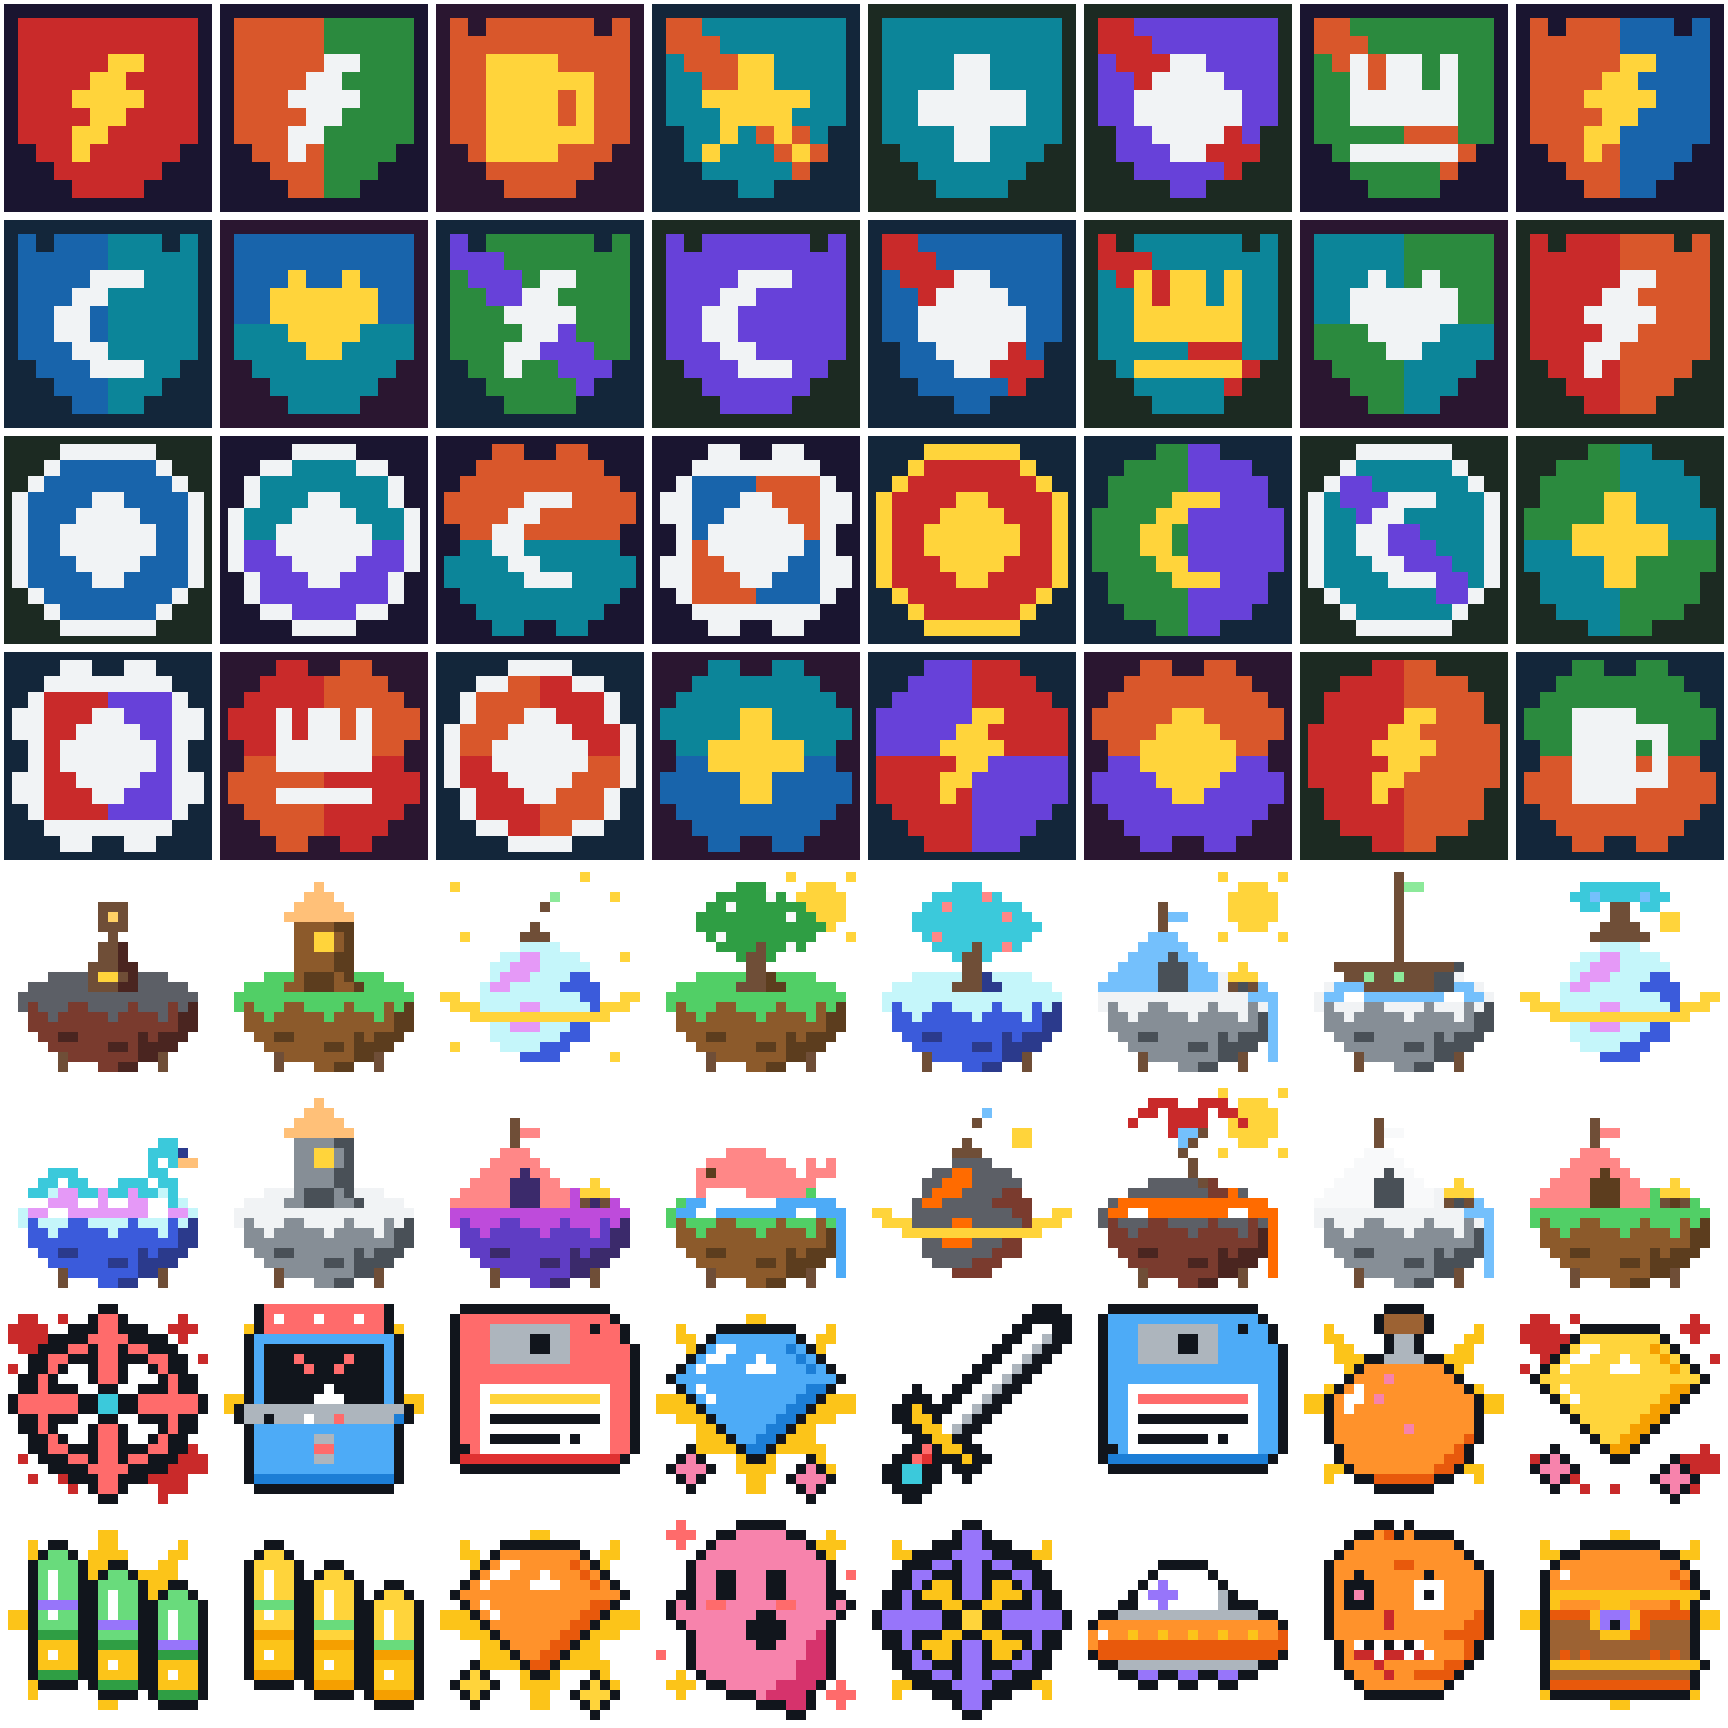
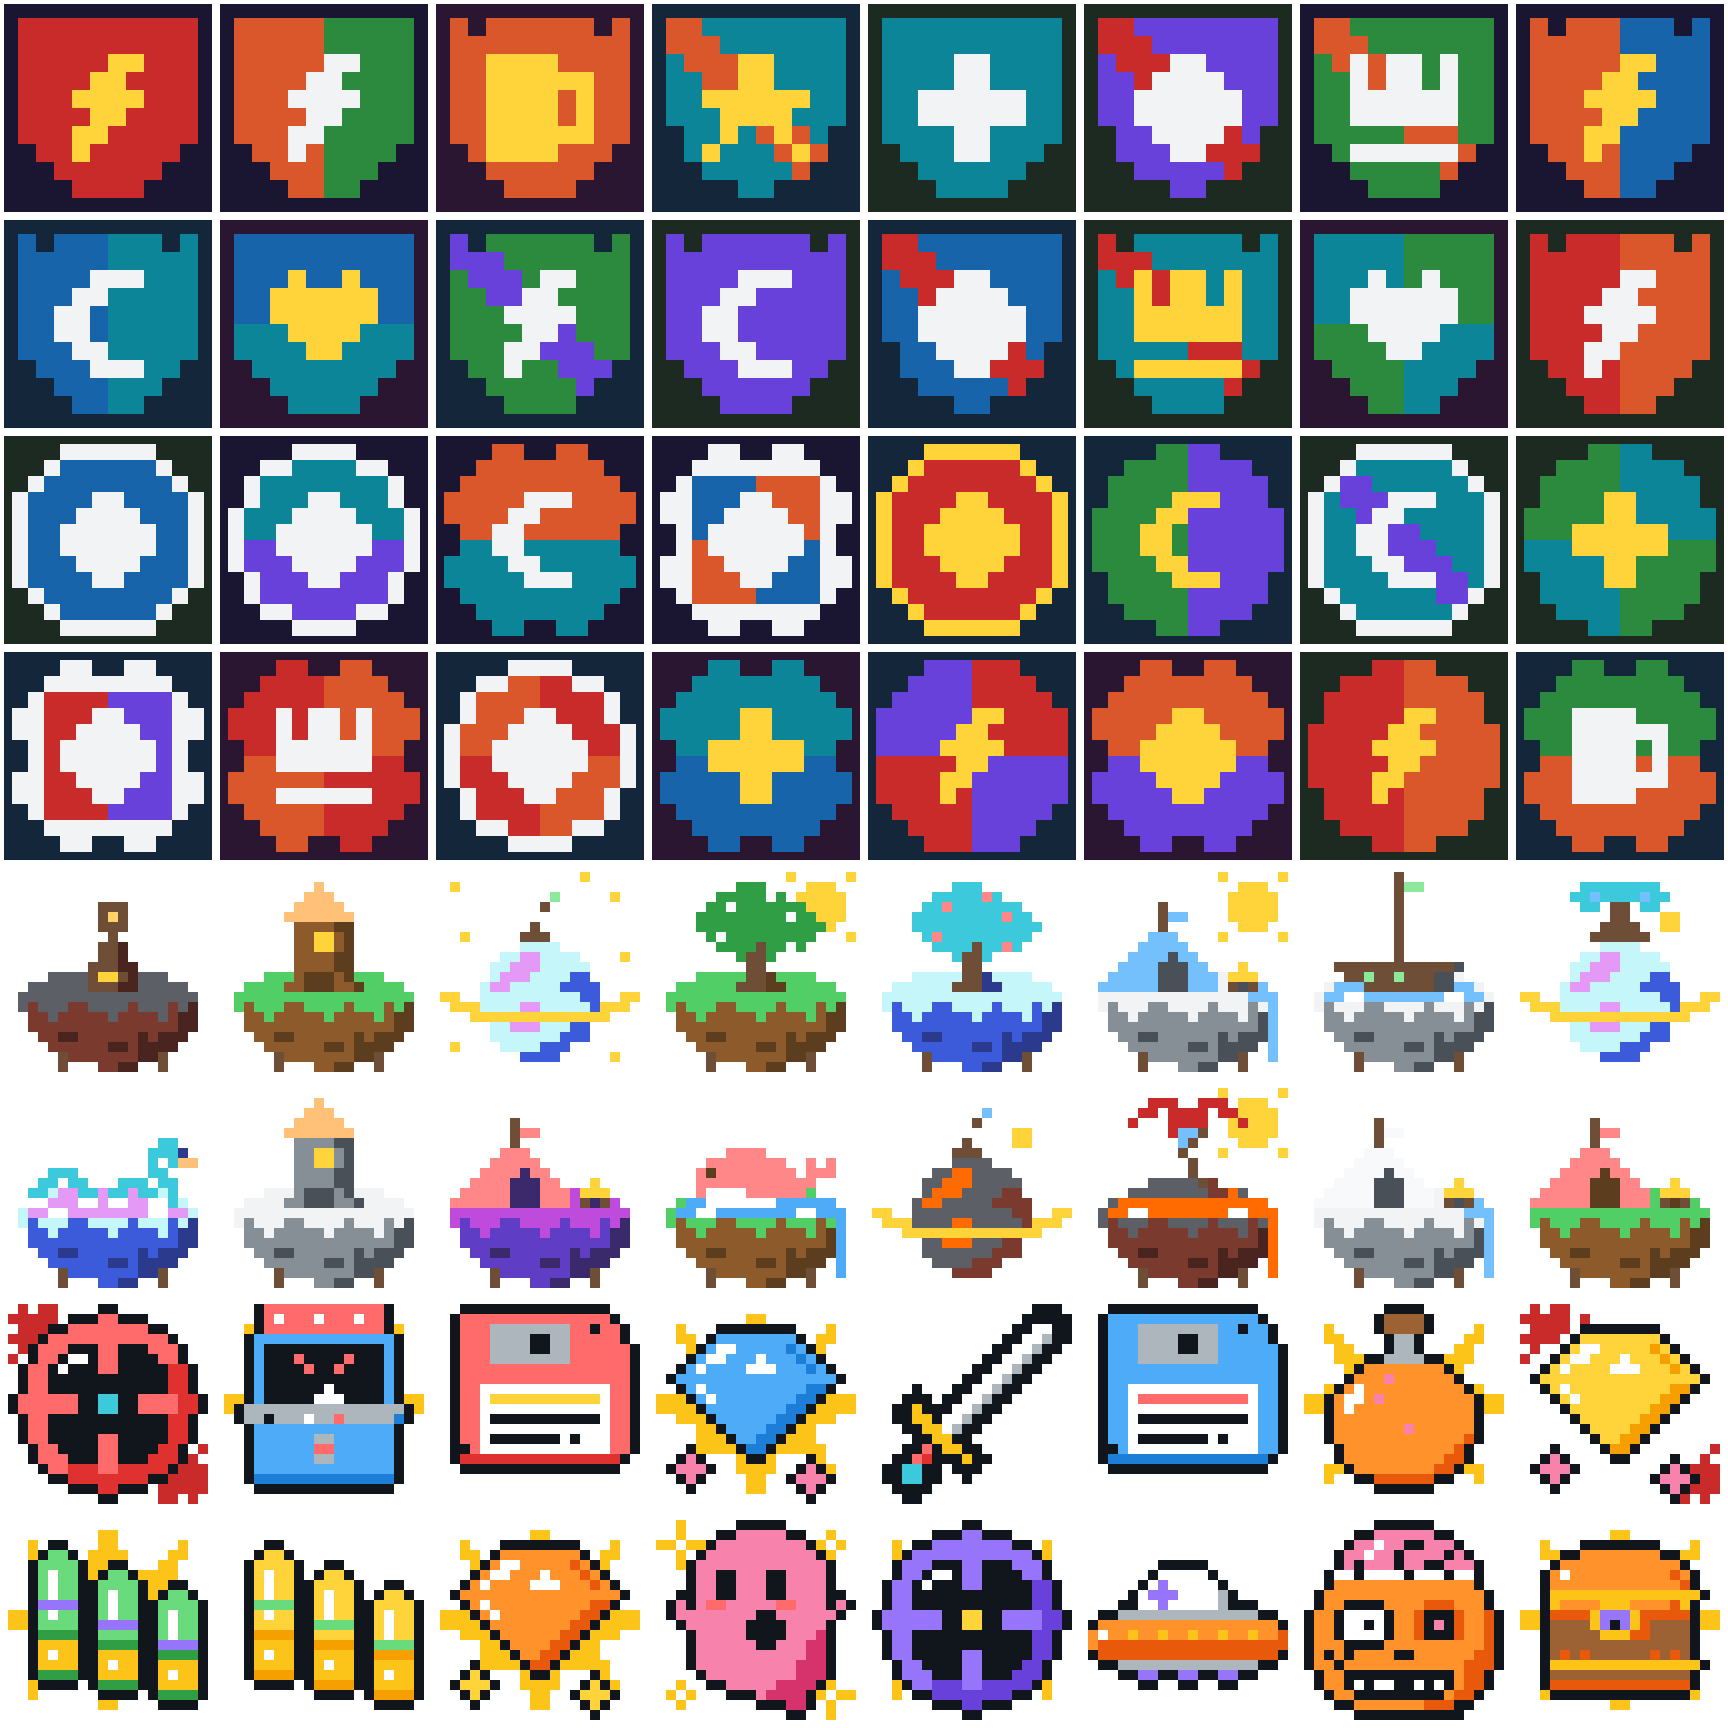
Redraw the zombie, crosshair, ship and two retro effects
The zombie read as a blob; it is now a head with an open skull showing
the brain, one bulging eye, a dark socket with a glow and a stitched
grin. The crosshair was a thin wheel and the ship hard to read; they are
now a shaded scope with a lens glint and a symmetric fighter with a
cockpit, wing guns and two engine flames. Splatter and sparkles were
scattered noise; splatter is now two splats in opposite corners and
sparkles four gold twinkles with white centers.

Seeds that draw a zombie, crosshair or ship, or the splatter or sparkles
effect, change. The other 21 motifs, the burst and plain sprites keep
their pictures.

Changelog: changed

diff --git a/src/retro.rs b/src/retro.rs
@@ -151,28 +151,29 @@ const MOTIFS: [Layer; 24] = [
         false,
     ),
     // zombie
-    Layer::at(
+    Layer::new(
         0,
-        2,
         &[
-            ".....pp.p........",
-            "...pp#dp#pppp....",
-            "..p##########p...",
-            ".p############p..",
-            "p######dd######p.",
-            "p##p######p#####p",
-            "p#ppp####www####p",
-            "p#pap####wpw####p",
-            "p#ppp####www####p",
-            "p#####t########dp",
-            "p#####t#######ddp",
-            "p###########ddddp",
-            ".p#wpwpwpw####dp.",
-            ".p#ttwttwtw###dp.",
-            ".p###t######ddp..",
-            "..p###t##ddddp...",
-            "...p########p....",
-            "....pppppppp.....",
+            ".......pppppp.......",
+            ".....ppaaaaaapp.....",
+            "....paawaappaaap....",
+            "...paawaapaaaapap...",
+            "...papaaapaappaaap..",
+            "..pwwpwwwwpwwwpwwp..",
+            "..p##############p..",
+            ".p################p.",
+            ".p##pppp####ddd###p.",
+            "p##pwwwwp##dpppd##dp",
+            "p##pwwpwp##dpapd##dp",
+            "p##pwwwwp##dpppd##dp",
+            "p###pppp##########dp",
+            "p#p#p####pp######ddp",
+            "p##p############dddp",
+            ".p##ppppppppppp#ddp.",
+            ".p##pwpwwppwpwp#ddp.",
+            "..p##ppppppppp#ddp..",
+            "...pp#######dddpp...",
+            ".....ppppppppppp....",
         ],
         false,
     ),
@@ -335,24 +336,24 @@ const MOTIFS: [Layer; 24] = [
         0,
         &[
             ".........pp.........",
-            "........p##p........",
             "......ppp##ppp......",
-            "....pppp####pppp....",
-            "...ppp##p##p##ppp...",
-            "..pp##ppp##ppp##pp..",
-            "..pp#p..p##p..p#pp..",
-            ".pp#p...p##p...p#pp.",
-            ".pp#ppp..pp..ppp#pp.",
-            "p######ppaapp######p",
-            "p######ppaapp######p",
-            ".pp#ppp..pp..ppp#pp.",
-            ".pp#p...p##p...p#pp.",
-            "..pp#p..p##p..p#pp..",
-            "..pp##ppp##ppp##pp..",
-            "...ppp##p##p##ppp...",
-            "....pppp####pppp....",
-            "......ppp##ppp......",
-            "........p##p........",
+            "....pp########pp....",
+            "...p############p...",
+            "..p###ppp##ppp###p..",
+            "..p##pwwp##pppp##p..",
+            ".p##pwppp##pppppddp.",
+            ".p##ppppppppppppddp.",
+            ".p##ppppppppppppddp.",
+            "p######ppaapp####ddp",
+            "p######ppaapp####ddp",
+            ".p##ppppppppppppddp.",
+            ".p##ppppppppppppddp.",
+            ".p##ppppp##pppppddp.",
+            "..p##pppp##ppppddp..",
+            "..p###ppp##pppdddp..",
+            "...p##ddd##dddddp...",
+            "....ppddddddddpp....",
+            "......pppddppp......",
             ".........pp.........",
         ],
         false,
@@ -651,25 +652,24 @@ const MOTIFS: [Layer; 24] = [
     ),
     // ship
     Layer::new(
-        0,
+        1,
         &[
-            "........pwwp........",
-            ".......pweewp.......",
-            ".......peeeep.......",
-            "......paeaaeap......",
-            "......paaaaaap......",
-            "......p#aeea#p......",
-            ".....p##eeee##p.....",
-            "....p###eeee###p....",
-            "...pd###e##e###dp...",
-            "..pdd##e####e##ddp..",
-            ".pddd##########dddp.",
-            "pd#######ww#######dp",
-            "pd##e##########e##dp",
-            "d##ee##eeeeee##ee##d",
-            "d#pppppppeeppppppp#d",
-            "dp...pggppppggp...pd",
-            "p....pggp..pggp....p",
+            ".........pp.........",
+            "........p##p........",
+            "........p##p........",
+            ".......p#ww#p.......",
+            ".......p#wa#p.......",
+            ".......p####p.......",
+            "......pe#ee#ep......",
+            "..p...p#eeee#p...p..",
+            ".p#p.p##e##e##p.p#p.",
+            ".p#pp###e##e###pp#p.",
+            "p##p#####ee#####p#dp",
+            "p#################dp",
+            "p####ww######ww###dp",
+            "p#dd####dddd####dddp",
+            ".pppp.pdp..pdp.pppp.",
+            "......pgp..pgp......",
             "......pap..pap......",
             ".......p....p.......",
         ],
@@ -707,13 +707,13 @@ const EFFECTS: [Layer; 4] = [
     ),
     // splatter
     Layer::new(
-        1,
+        0,
         &[
-            ".tt..t...........t..",
-            "tttt............ttt.",
-            "ttttt..t.........t..",
+            ".t.tt...............",
+            "ttttt.t.............",
             ".tttt...............",
-            "..tt...............t",
+            "tttt................",
+            ".t..t...............",
             "t...................",
             "....................",
             "....................",
@@ -722,12 +722,13 @@ const EFFECTS: [Layer; 4] = [
             "....................",
             "....................",
             "....................",
-            "..................t.",
-            ".t..............tttt",
+            "....................",
+            "...................t",
+            "...............t..t.",
+            "................tttt",
+            "..............t.tttt",
             "...............ttttt",
-            "..t..t........tttt..",
-            "......t..t.....ttt..",
-            "...............t....",
+            "...............tt.t.",
         ],
         false,
     ),
@@ -735,25 +736,26 @@ const EFFECTS: [Layer; 4] = [
     Layer::new(
         0,
         &[
-            "..a.................",
-            ".aaa.............g..",
-            "..a.............ggg.",
-            ".................g..",
-            "....................",
-            "...................a",
-            "....................",
-            "....................",
-            "....................",
-            "....................",
-            "....................",
-            "....................",
-            "....................",
-            "a...................",
-            "....................",
             "..g.................",
-            ".ggg..............a.",
-            "..g..............aaa",
-            "..................a.",
+            "..g..............g..",
+            "ggwgg...........gwg.",
+            "..g..............g..",
+            "..g.................",
+            "....................",
+            "....................",
+            "....................",
+            "....................",
+            "....................",
+            "....................",
+            "....................",
+            "....................",
+            "....................",
+            "....................",
+            ".................g..",
+            "..g..............g..",
+            ".gwg...........ggwgg",
+            "..g..............g..",
+            ".................g..",
         ],
         false,
     ),

diff --git a/tests/gsichtl.rs b/tests/gsichtl.rs
@@ -38,7 +38,7 @@ fn seeds_keep_their_pictures() {
[8 lines of base64/hex data omitted]
@@ -46,7 +46,7 @@ fn seeds_keep_their_pictures() {
[6 lines of base64/hex data omitted]
     ];
     assert_eq!(got, want);
